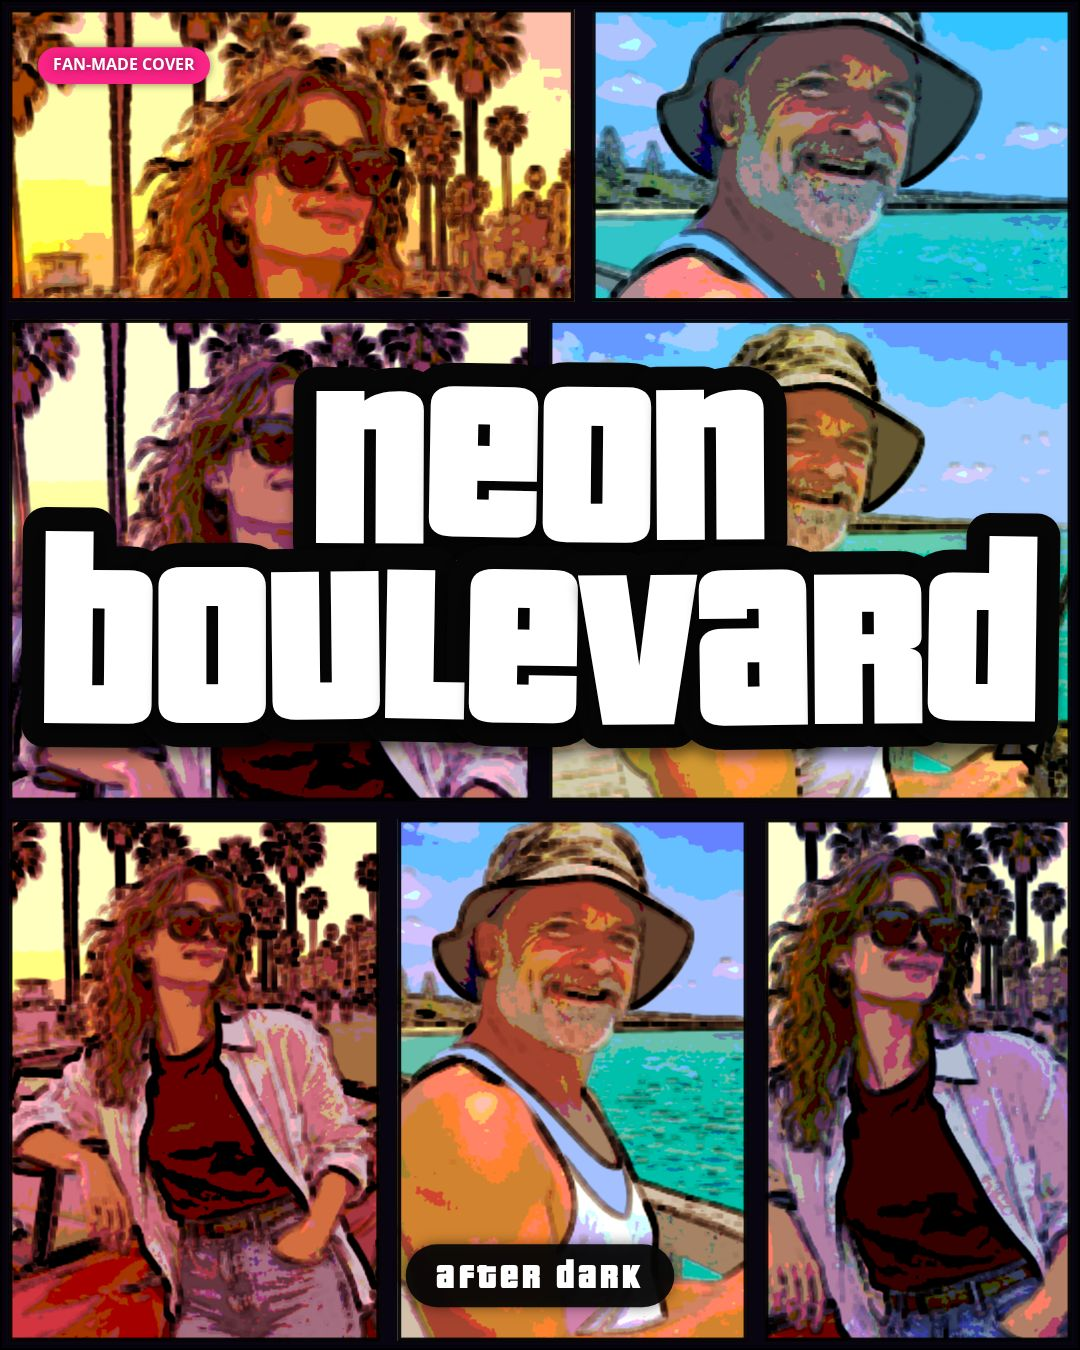
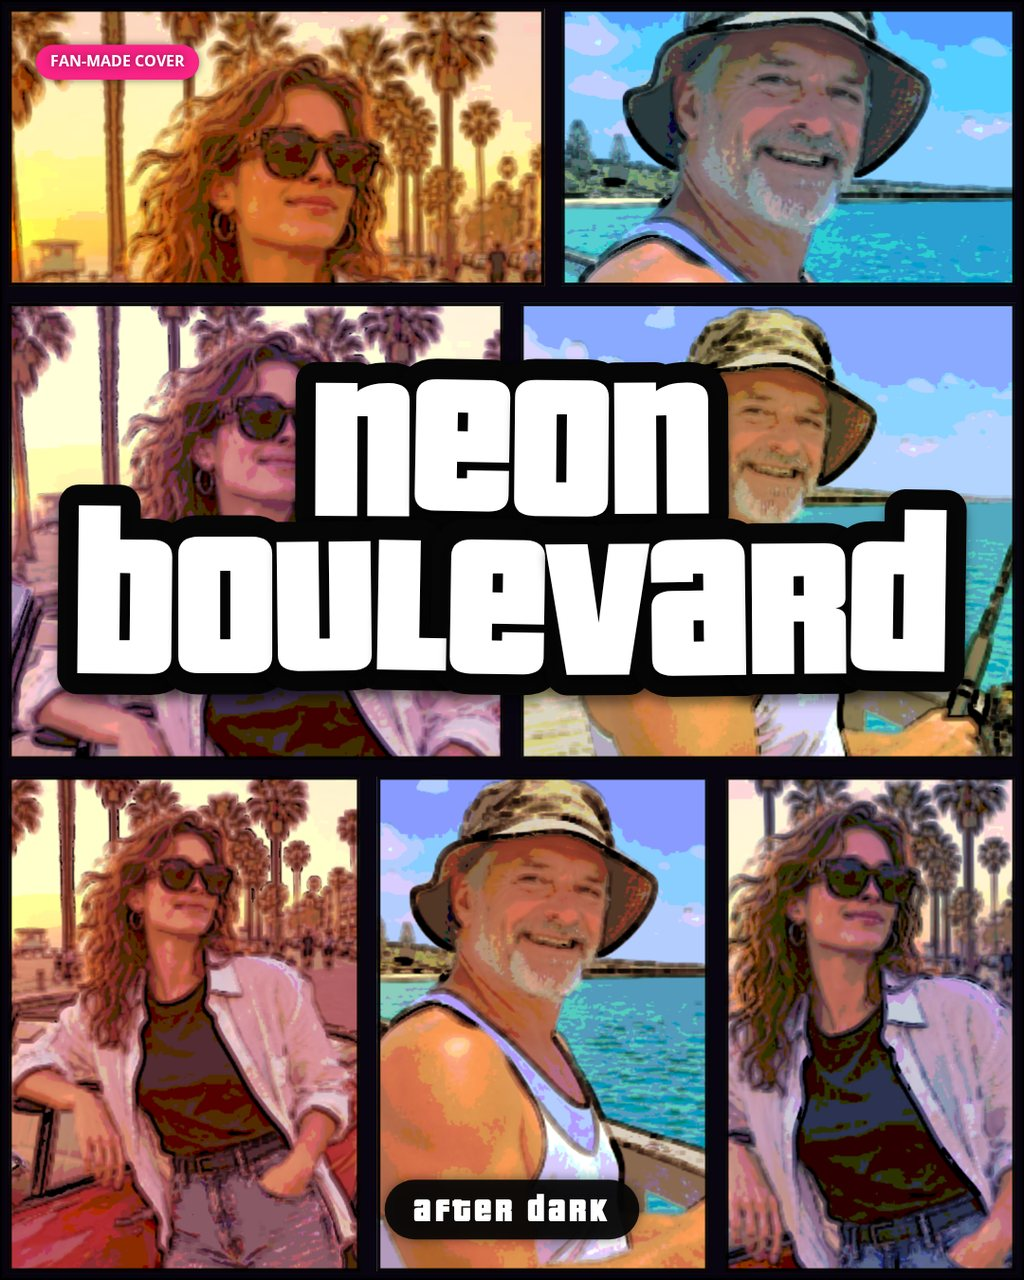
Final polish: shrink centre title 8% (TITLE_SCALE .92) so faces show, soften comic-grade skin handling (gamma lift, skin-aware posterize, gentler skin edges, sat 1.33, levels 6), regenerate screenshots

diff --git a/app/src/cover.js b/app/src/cover.js
@@ -8,8 +8,9 @@ const wash = (ctx, w, h, stops, composite = 'soft-light', alpha = 1) => {
   ctx.fillStyle = g; ctx.fillRect(0, 0, w, h); ctx.restore();
 };
 
-const COMIC = { levels: 5, sat: 1.45, contrast: 1.08, edgeLo: 14, edgeHi: 70, edgeAlpha: 1, tintSoft: .38, tintOverlay: .16 };
+const COMIC = { levels: 6, sat: 1.33, contrast: 1.08, edgeLo: 17, edgeHi: 70, edgeAlpha: 1, tintSoft: .35, tintOverlay: .12 };
 const COMIC_TINTS = ['#ff8a2a', '#4d7bff', '#b45cff', '#ffd23c', '#ff4d7e', '#ff8a2a', '#4d7bff'];
+const TITLE_SCALE = .92;
 const toneCss = t => t === 'warm' ? 'sepia(.28)' : t === 'cool' ? 'hue-rotate(22deg) saturate(1.15)' : t === 'mono' ? 'grayscale(1)' : '';
 
 function comicPanel(img, p, pw, ph, tint) {
@@ -25,8 +26,11 @@ function comicPanel(img, p, pw, ph, tint) {
   const sctx = small.getContext('2d'); sctx.imageSmoothingEnabled = true; sctx.drawImage(canvas, 0, 0, small.width, small.height);
   ctx.imageSmoothingEnabled = true; ctx.clearRect(0, 0, w, h); ctx.drawImage(small, 0, 0, w, h);
   const image = ctx.getImageData(0, 0, w, h), data = image.data, lum = new Float32Array(w * h), step = 255 / (COMIC.levels - 1);
+  const orig = new Float32Array(w * h * 3), lift = v => 255 * Math.pow(v / 255, .93);
   for (let i = 0; i < w * h; i++) {
-    const j = i * 4; lum[i] = .299 * data[j] + .587 * data[j + 1] + .114 * data[j + 2];
+    const j = i * 4;
+    for (let c = 0; c < 3; c++) { const v = lift(data[j + c]); data[j + c] = v; orig[i * 3 + c] = v; }
+    lum[i] = .299 * data[j] + .587 * data[j + 1] + .114 * data[j + 2];
   }
   const mag = new Float32Array(w * h);
   for (let y = 1; y < h - 1; y++) for (let x = 1; x < w - 1; x++) {
@@ -42,8 +46,15 @@ function comicPanel(img, p, pw, ph, tint) {
     dilated[i] = max;
   }
   for (let i = 0; i < w * h; i++) {
-    const j = i * 4, a = clamp((dilated[i] / 4 - COMIC.edgeLo) / (COMIC.edgeHi - COMIC.edgeLo), 0, 1) * COMIC.edgeAlpha;
-    for (let c = 0; c < 3; c++) data[j + c] = Math.round(Math.round(data[j + c] / step) * step * (1 - a));
+    const j = i * 4, r = orig[i * 3], g = orig[i * 3 + 1], b = orig[i * 3 + 2];
+    const skin = r > 95 && g > 40 && b > 20 && r > g && r > b && Math.abs(r - g) > 15 && (r - b) > 15;
+    let a = clamp((dilated[i] / 4 - COMIC.edgeLo) / (COMIC.edgeHi - COMIC.edgeLo), 0, 1) * COMIC.edgeAlpha;
+    if (skin) a *= .55;
+    for (let c = 0; c < 3; c++) {
+      const o = orig[i * 3 + c]; let q = Math.round(o / step) * step;
+      if (skin) q = q + (o - q) * .45;
+      data[j + c] = Math.round(q * (1 - a));
+    }
   }
   ctx.putImageData(image, 0, 0);
   if (tint) {
@@ -75,6 +86,7 @@ function drawCenterTitle(ctx, W, H, state) {
   let laid = lines.map(layoutLine);
   while (Math.max(...laid.map(l => l.width)) > W * .94 && size > 20) { size -= 3; laid = lines.map(layoutLine); }
   while (Math.max(...laid.map(l => l.width)) < W * .55 && size < H * .34) { size += 3; laid = lines.map(layoutLine); }
+  size = Math.max(20, Math.round(size * TITLE_SCALE)); laid = lines.map(layoutLine);
   const lineStep = size * .8, cy = W > H ? H * .5 : H * .415, firstY = cy - (lines.length - 1) * lineStep / 2;
   ctx.save(); ctx.textAlign = 'center'; ctx.textBaseline = 'middle'; ctx.lineJoin = 'round';
   ctx.shadowColor = 'rgba(0,0,0,.45)'; ctx.shadowBlur = size * .05; ctx.shadowOffsetY = size * .04;
